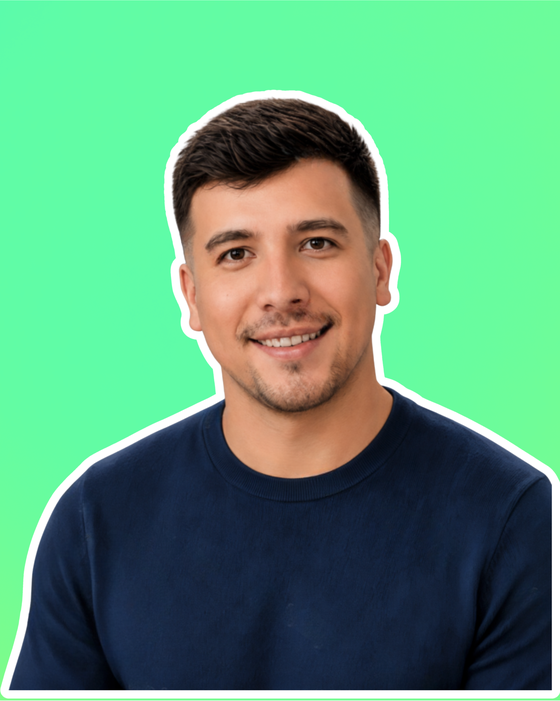
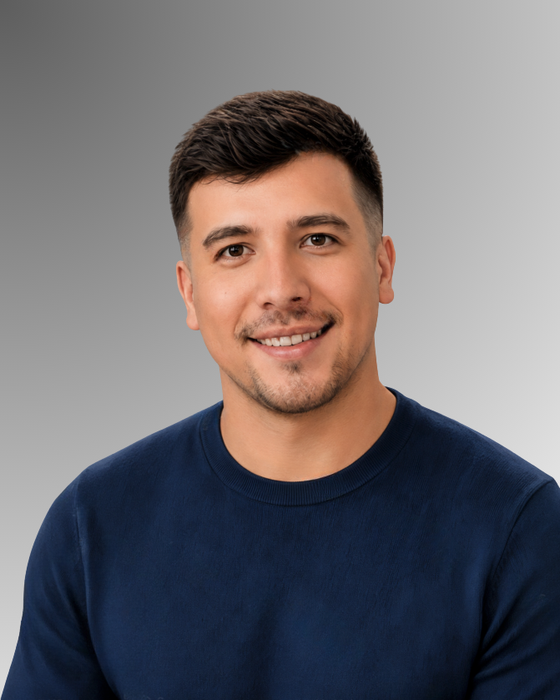
feat: update hero images and optimize image handling
- Replaced existing hero images with updated versions in PNG and WebP formats.
- Added a new hero image (hero9.png) to the assets.
- Enhanced image optimization script to include a revision timestamp for cache-busting.
- Updated optimizedImages configuration to reflect new image revisions and corrected height for the 560 variant.
- Refactored profile portrait asset handling to utilize the new revision system for cache management.

diff --git a/src/config/profilePortraitAssets.ts b/src/config/profilePortraitAssets.ts
@@ -1,4 +1,21 @@
-import { versionedSrc } from '@/config/publicAssets';
+import optimizedImages from '@/config/optimizedImages.json';
+import { appBuildId } from './appBuildId';
+
+const portraitBase = '/assets/hero';
+
+const heroRevision = optimizedImages.hero.revision;
+
+/** Cache-bust portrait assets when hero.png changes (revision from optimize-images). */
+export function versionPortraitSrc(path: string): string {
+    if (!path.startsWith(portraitBase)) {
+        return path;
+    }
+
+    const [base, query] = path.split('?');
+    const params = new URLSearchParams(query);
+    params.set('v', `${appBuildId}-${heroRevision}`);
+    return `${base}?${params.toString()}`;
+}
 
 /** Intrinsic size of the largest portrait variant (see scripts/optimize-images.py). */
 export const PROFILE_PORTRAIT_DISPLAY = {
@@ -6,18 +23,16 @@ export const PROFILE_PORTRAIT_DISPLAY = {
     height: 701,
 } as const;
 
-const portraitBase = '/assets/hero';
-
 export const profilePortraitSources = {
     webp: {
-        280: versionedSrc(`${portraitBase}-280.webp`),
-        560: versionedSrc(`${portraitBase}-560.webp`),
+        280: versionPortraitSrc(`${portraitBase}-280.webp`),
+        560: versionPortraitSrc(`${portraitBase}-560.webp`),
     },
     png: {
-        280: versionedSrc(`${portraitBase}-280.png`),
-        560: versionedSrc(`${portraitBase}-560.png`),
+        280: versionPortraitSrc(`${portraitBase}-280.png`),
+        560: versionPortraitSrc(`${portraitBase}-560.png`),
     },
-    fallback: versionedSrc(`${portraitBase}-560.png`),
+    fallback: versionPortraitSrc(`${portraitBase}-560.png`),
 } as const;
 
 export const profilePortraitSrcSet = {

diff --git a/scripts/optimize-images.py b/scripts/optimize-images.py
@@ -117,6 +117,7 @@ def optimize_recipe(recipe: ImageRecipe) -> dict:
 
     return {
         "source": str(recipe.source.relative_to(ROOT)),
+        "revision": int(recipe.source.stat().st_mtime),
         "defaultPng": f"/assets/{recipe.source.name}",
         "defaultWebp": f"/assets/{stem}.webp",
         "variants": variants,
